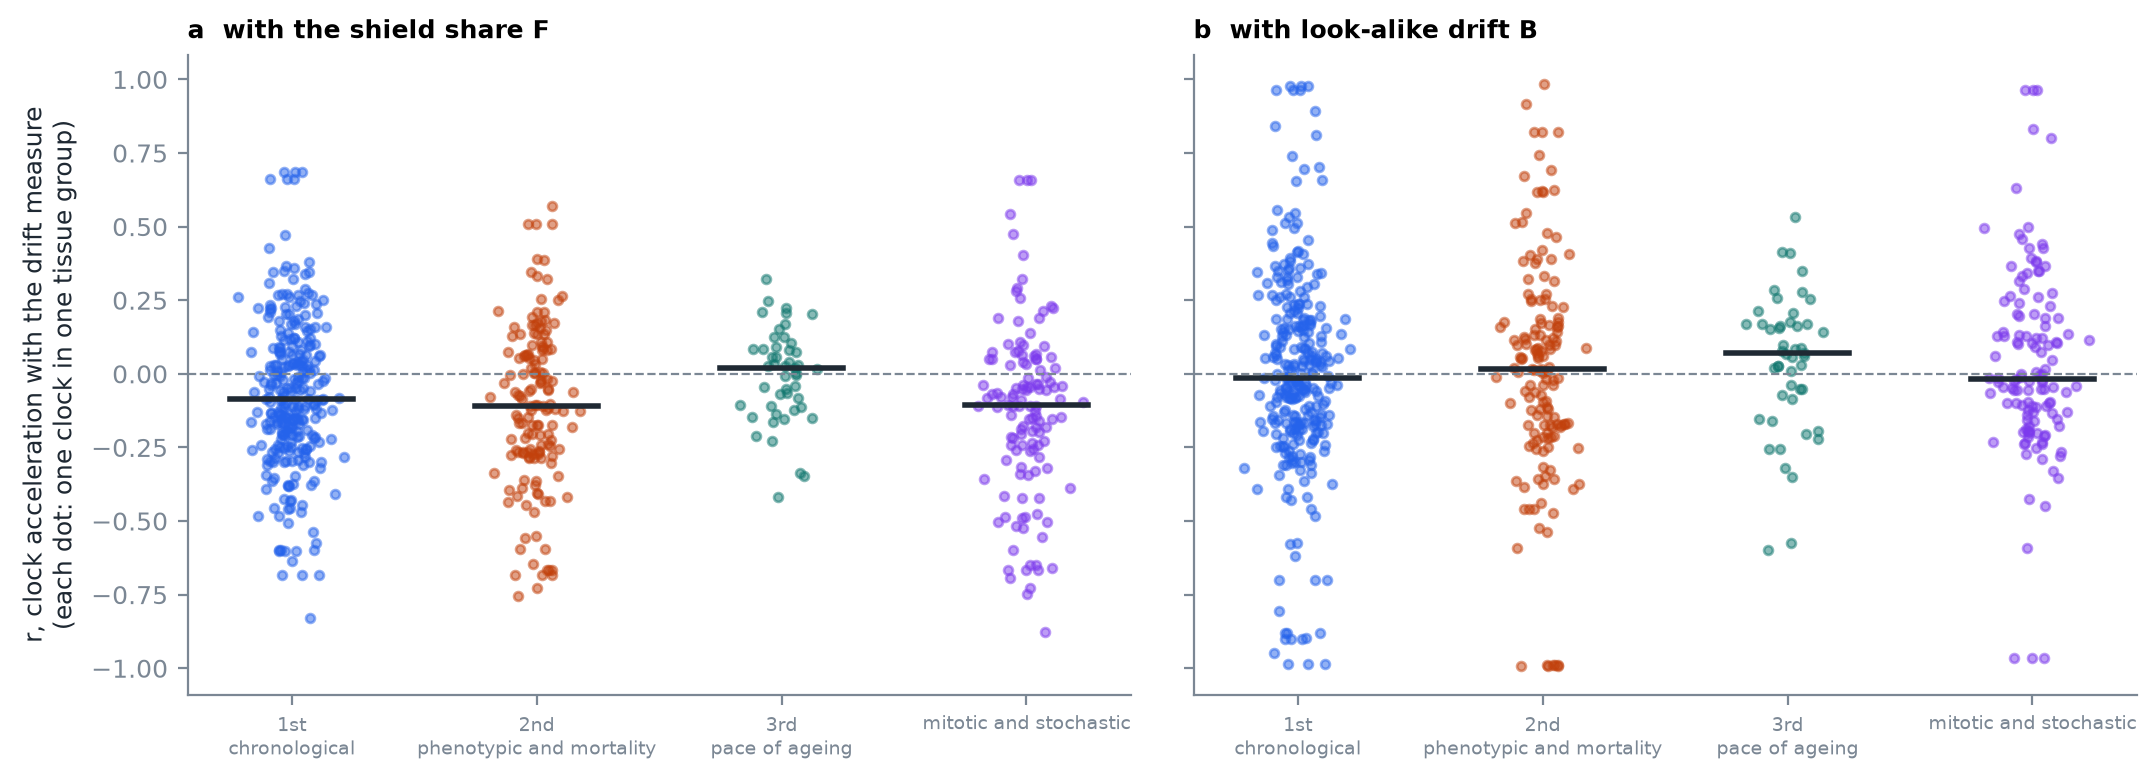
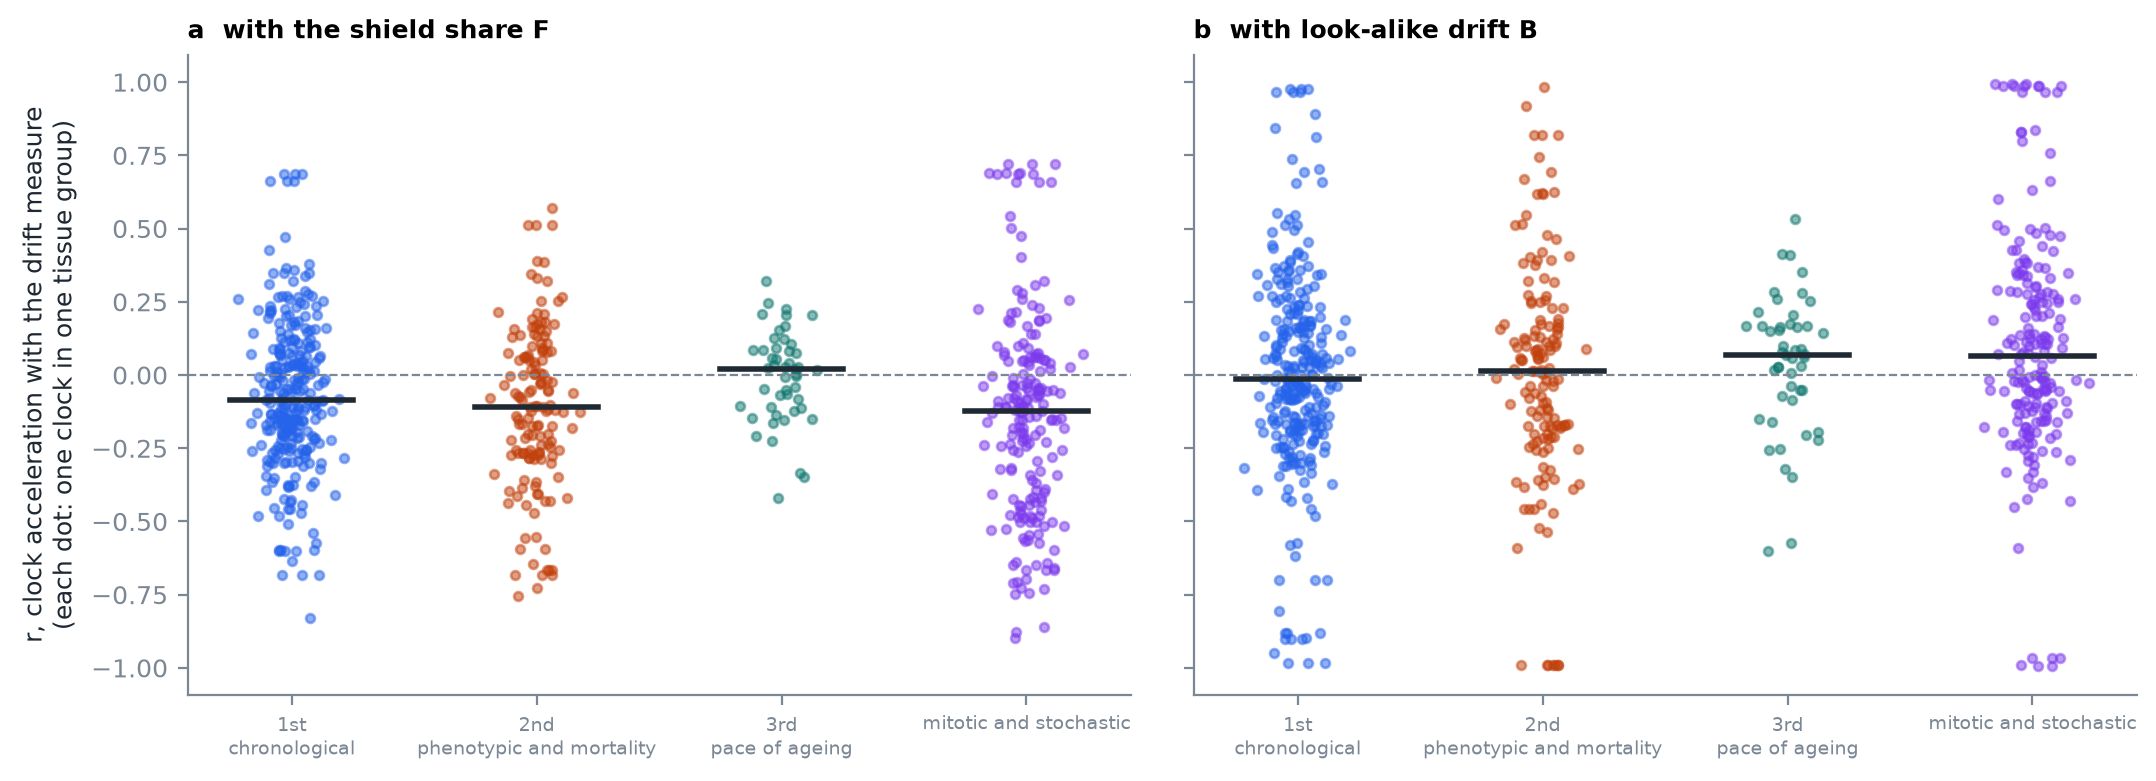
R178: epiTOC2, RepliTali, epiCMIT against the per-person shield
Seat: entropy-age/lead

diff --git a/docs/CHANGELOG.md b/docs/CHANGELOG.md
@@ -4,6 +4,7 @@ Newest first.
 
 ## Unreleased
 
+- 2026-11-25: R178 clock_drift with epiTOC2, RepliTali and epiCMIT. epiTOC2 repeats EpiTOC1 group by group (median r with F -0.43 outside the brain, 18/22 negative; brain -0.11; sorted neurons +0.31/+0.50). epiCMIT similar (-0.44). RepliTali (PMD solo-WCGW CpGs, EPIC only) tracks the shield in healthy and fibrotic lung (-0.40 to -0.55) and goes negative in neurons (-0.20/-0.43) where the promoter clocks reverse. Exception: GEO adjacent lung (lung_450k, the series with a reversed gap) +0.69 for all three, EpiTOC1 not scored there. Overlap of clock CpGs with the shield's CpG sets not yet checked.
 - 2026-11-25: new analysis `clock_disagreement` (RESEARCH_PLAN idea 4): per person, the SD of the age clocks' z-scored accelerations. It rises with drift B (median r 0.53 over 32 groups with all age clocks, 0.19 with tissue-valid clocks only, which are mostly Horvath v1/v2; EPIC-Italy 0.46, SJLIFE 0.35) and carries no risk beyond the mean acceleration: EPIC-Italy breast cancer > 2 y OR 0.93 (0.71-1.22), SJLIFE death OR 1.00 (0.86-1.15). Array quality partly confounds the B link in EPIC-Italy (partial r 0.36 after quality, cells and mean acceleration; ad hoc, not in the module).
 - 2026-11-25: clocks_biolearn.py wrote its per-clock coverage summary next to the temporary output (`*_clocks_panel.csv.tmp`), never renamed; it now names it after the final file. Existing summaries renamed.
 - 2026-11-25: new analysis `clock_preprocessing` (RESEARCH_PLAN idea 5): every clock on the masked rebuild and on the clock track, same arrays, 46 series. Median r 0.999; lowest BodyFatMcCartney 0.92, DunedinPACE 0.97; largest shifts StocP 0.87 SD, Bohlin 0.67 SD, Horvathv1 0.28 SD (3.1 y); every one-track-only clock passes on the unmasked track (DunedinPACE fails masked in 28 series, Hannum and EpiTOC1 in 17). GrimAge not comparable yet (masked track never scored it).
